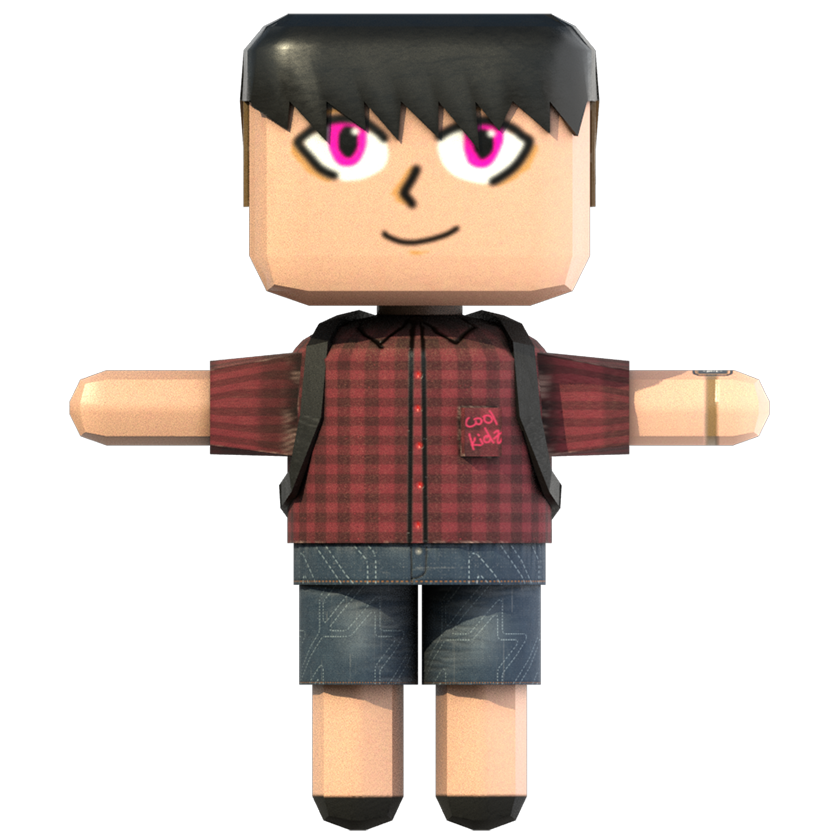
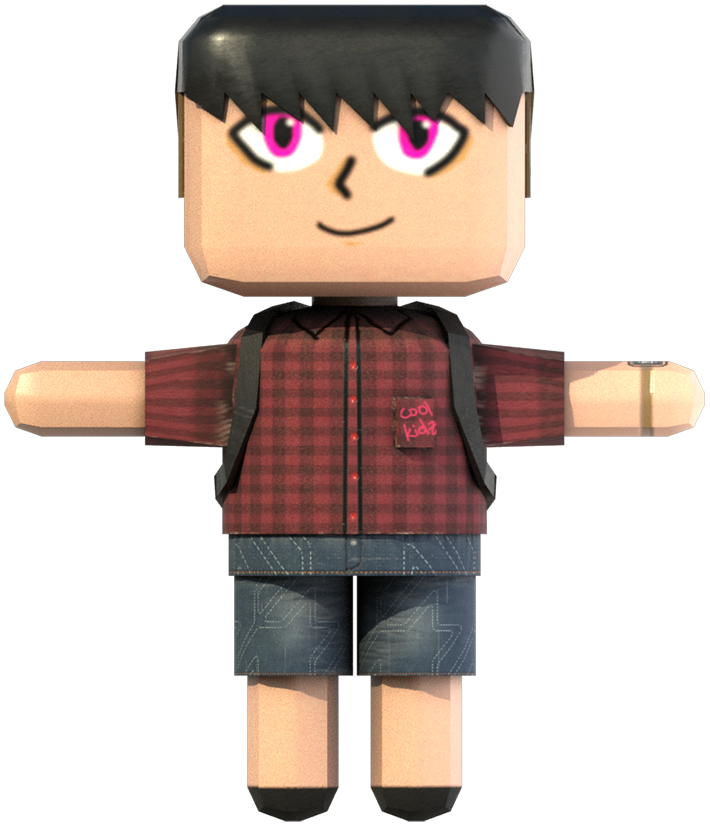
test

Changed region(s): [[0.0, 0.0, 0.9915, 1.0], [0.5268, 0.9697, 0.5577, 1.0]]

diff --git a/index.js b/index.js
@@ -16,20 +16,6 @@
 //     expenses.utilities = document.getElementById("utilities").value;
 // };
 
-// if (health == "low") {
-//     function lowHealth() {
-//         document.getElementById("#background").style.backgroundImage = "images/Homepage/Low Health BG.png";
-//     }
-// } else if (health == "mid") {
-//     function midHealth() {
-//         document.getElementById("#background").style.backgroundImage = "images/Homepage/mid_health.png";
-//     }
-// } else {
-//     function highHealth() {
-//         document.getElementById("#background").style.backgroundImage = "images/Homepage/High Health BG.png"
-//     }
-// };
-
 
   //[STEP 0]: Make sure our document is A-OK
 $(document).ready(function account() {
@@ -260,3 +246,37 @@ $(document).ready(function expenses() {
     })//end updateform function
   
   });
+
+  function editExpenses() {
+    document.getElementById("overlay").style.display = "block";
+
+  };
+
+  function off() {
+    document.getElementById("overlay").style.display = "none";
+  };
+
+  function changeBackground() {
+    if (health == "low") {
+      var background = document.getElementById('_bg__homepage_ek2');
+      background.setAttribute('src', 'images/Homepage/Low Health BG.png');
+      var character = document.getElementById('charactermodel');
+      character.setAttribute('src', 'images/Homepage//sad_character.png');
+      var pet = document.getElementById('pet');
+      pet.setAttribute('src', 'images/Homepage/moneypet.png');
+    } else if (health == "mid") {
+      var background = document.getElementById('_bg__homepage_ek2');
+      background.setAttribute('src', 'images/Homepage//character.png');
+      var character = document.getElementById('charactermodel');
+      character.setAttribute('src', 'images/Homepage//sad_character.png');
+      var pet = document.getElementById('pet');
+      pet.setAttribute('src', 'images/Homepage/moneypet.png');
+    } else {
+      var background = document.getElementById('_bg__homepage_ek2');
+      background.setAttribute('src', 'images/Homepage/High Health BG.png');
+      var character = document.getElementById('charactermodel');
+      character.setAttribute('src', 'images/Homepage//happy_character.png');
+      var pet = document.getElementById('pet');
+      pet.setAttribute('src', 'images/Homepage/moneypet.png');
+    };
+  };

diff --git a/survey.js b/survey.js
@@ -1,0 +1,67 @@
+var currentTab = 0;
+showTab(currentTab);
+
+function showTab(n) {
+  var x = document.getElementsByClassName("tab");
+  x[n].style.display = "block";
+  if (n == 0) {
+    document.getElementById("prevBtn").style.display = "none";
+  } else {
+    document.getElementById("prevBtn").style.display = "inline";
+  }
+  if (n == (x.length - 1)) {
+    document.getElementById("nextBtn").innerHTML = "Submit";
+  } else {
+    document.getElementById("nextBtn").innerHTML = "Next";
+  }
+  fixStepIndicator(n)
+}
+
+function nextPrev(n) {
+  var x = document.getElementsByClassName("tab");
+  if (n == 1 && !validateForm()) return false;
+  x[currentTab].style.display = "none";
+  currentTab = currentTab + n;
+  if (currentTab >= x.length) {
+    document.getElementById("regForm").submit();
+    document.getElementById("nextBtn").addEventListener("click", myFunction);
+       function myFunction() {
+         document.location.href="homepage.html"
+       }
+    return false;
+  }
+
+  showTab(currentTab);
+}
+
+function validateForm() {
+
+  var x, y, i, valid = true;
+  x = document.getElementsByClassName("tab");
+  y = x[currentTab].getElementsByTagName("input");
+
+  for (i = 0; i < y.length; i++) {
+
+    if (y[i].value == "") {
+
+      y[i].className += " invalid";
+
+      valid = false;
+    }
+  }
+
+  if (valid) {
+    document.getElementsByClassName("step")[currentTab].className += " finish";
+  }
+  return valid;
+}
+
+function fixStepIndicator(n) {
+
+  var i, x = document.getElementsByClassName("step");
+  for (i = 0; i < x.length; i++) {
+    x[i].className = x[i].className.replace(" active", "");
+  }
+
+  x[n].className += " active";
+}

diff --git a/page.css b/page.css
@@ -31,15 +31,15 @@ div { position: absolute; }
 }
 
 #charactermodel {
-	width: 400px;
-	margin-left: -20px;
+	width: 380px;
+	margin-left: 0px;
 	margin-top: 300px;
 }
 
-#moneypet {
-	width: 100px;
+#pet {
+	width: 90px;
 	margin-top: 400px;
-	margin-left: 275px;
+	margin-left: 285px;
 }
 
 
@@ -58,10 +58,10 @@ div { position: absolute; }
 }
 
 #_bg__homepage_ek2 {
-	top: 0px;
+	top: 80px;
 	left: 0px;
-	width: 384;
-	height: 854px;
+	width: 384px;
+	height: 694px;
 	background:rgba(255,255,255,255);
 }
 
@@ -1299,6 +1299,7 @@ div { position: absolute; }
 
 
 #rectangle_47_ek1 {
+	position: absolute;
 	top: 193px;
 	left: 33px;
 	width: 319px;
@@ -1598,7 +1599,12 @@ div { position: absolute; }
 
 
 #expenses_ek2 {
-	top: 645px;
+	position: relative;
+	display: flex;
+	justify-content: center;
+	align-items: center;
+	color: white;
+	top: 640px;
 	left: 157px;
 	width: 75px;
 	height: 49px;
@@ -1613,8 +1619,22 @@ div { position: absolute; }
 	-moz-box-shadow:0px 5px 3px 3px rgba(0,0,0,1.66);
 	box-shadow:0px 5px 3px 3px rgba(0,0,0,1.66);
 	background:rgba(43,50,82,255);
+	z-index: 1;
 }
 
+#overlay {
+	position: relative;
+	display: none;
+	width: 100%;
+	height: 100%;
+	top: 0;
+	left: 0;
+	right: 0;
+	bottom: 0;
+	background-color: rgba(0,0,0,0.5);
+	z-index: 0;
+	cursor: default;
+  }
 
 #edit {
 	top: 663px;

diff --git a/homepage low.html b/homepage low.html
@@ -18,8 +18,8 @@
 				<div id="background"></div>
 				<img src="images/Homepage/Low Health BG.png" id="_bg__homepage_ek2"  />
 				<div id="character">
-					<img src="images/Homepage/character.png" id="charactermodel" />
-					<img src="images/Homepage/moneypet.png" id="moneypet" />
+					<img src="images/Homepage//sad_character.png" id="charactermodel" />
+					<img src="images/Homepage/moneypet.png" id="pet" />
 				</div>
 				<div id="menu_bar"  ></div>
 				<a id="_achievements_icon_link" href="achievements.html" >
@@ -37,7 +37,7 @@
 				</div>
 				<img src="images/Homepage/triangle_1.png" id="triangle_1" />
 				<img src="images/Homepage/character_icon.png" id="character_icon" />
-				<img src="images/Homepage/mid_health.png" id="mid_health" />
+				<img src="images/Homepage/low_health.png" id="mid_health" />
 				<img src="images/Homepage/ellipse_1.png" id="ellipse_1" />
 
 			</div>
@@ -45,4 +45,8 @@
 
 		</div>
 	</body>
+
+	<script src="index.js"></script>
+
+	
 </html>

diff --git a/expenses.html b/expenses.html
@@ -13,7 +13,6 @@
 	<body>
 		<div id="content-container" >
 
-
 			<div id="page_expenses_page_ek1"  >
 				<div id="_bg__expenses_page_ek2"  ></div>
 				<div id="rectangle_34"  ></div>
@@ -64,7 +63,10 @@
 				<div id="savings_25_" >
 					Savings<br/>25%
 				</div>
-				<div id="expenses_ek2"  ></div>
+				<div id="overlay">
+					<button onclick="off()"></button>
+				</div>
+				<button id="expenses_ek2" onclick="editExpenses()" >Edit</button>
 				<a id="edit" href="edit.html" >
 					EDIT
                 </a>
@@ -86,6 +88,6 @@
 
 		</div>
 	</body>
-	<script src="https://cdnjs.cloudflare.com/ajax/libs/jquery/3.5.1/jquery.min.js"></script>
 
+	<script src="index.js"></script>
 </html>

diff --git a/homepage high.html b/homepage high.html
@@ -17,6 +17,10 @@
 			<div id="page_homepage_ek1"  >
 				<div id="background"></div>
 				<img src="images/Homepage/High Health BG.png" id="_bg__homepage_ek2"  />
+				<div id="character">
+					<img src="images/Homepage//happy_character.png" id="charactermodel" />
+					<img src="images/Homepage/moneypet.png" id="moneypet" />
+				</div>
 				<div id="menu_bar"  ></div>
 				<a id="_achievements_icon_link" href="achievements.html" >
 				<img src="images/Homepage/_achievements_icon.png" id="_achievements_icon" />
@@ -41,4 +45,8 @@
 
 		</div>
 	</body>
+
+	<script src="index.js"></script>
+
+	
 </html>

diff --git a/homepage mid.html b/homepage mid.html
@@ -17,6 +17,10 @@
 			<div id="page_homepage_ek1"  >
 				<div id="background"></div>
 				<img src="images/Homepage/Mid Health BG.png" id="_bg__homepage_ek2"  />
+				<div id="character">
+					<img src="images/Homepage//character.png" id="charactermodel" />
+					<img src="images/Homepage/moneypet.png" id="moneypet" />
+				</div>
 				<div id="menu_bar"  ></div>
 				<a id="_achievements_icon_link" href="achievements.html" >
 				<img src="images/Homepage/_achievements_icon.png" id="_achievements_icon" />
@@ -41,4 +45,8 @@
 
 		</div>
 	</body>
+
+	<script src="index.js"></script>
+
+	
 </html>

diff --git a/achievements.html b/achievements.html
@@ -46,4 +46,7 @@
 	</body>
 
 	<script src="https://cdnjs.cloudflare.com/ajax/libs/jquery/3.5.1/jquery.min.js"></script>
+	<script src="index.js"></script>
+
+	
 </html>

diff --git a/social.html b/social.html
@@ -50,4 +50,8 @@
 
 		</div>
 	</body>
+
+	<script src="index.js"></script>
+
+
 </html>

diff --git a/login.html b/login.html
@@ -19,4 +19,6 @@
     </div>
 </body>
 
+<script src="index.js"></script>
+
 </html>
